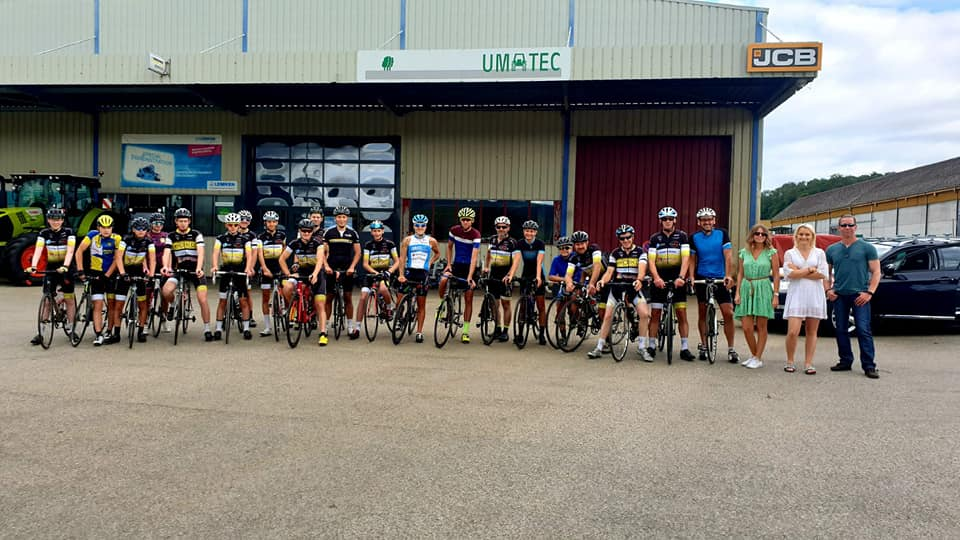
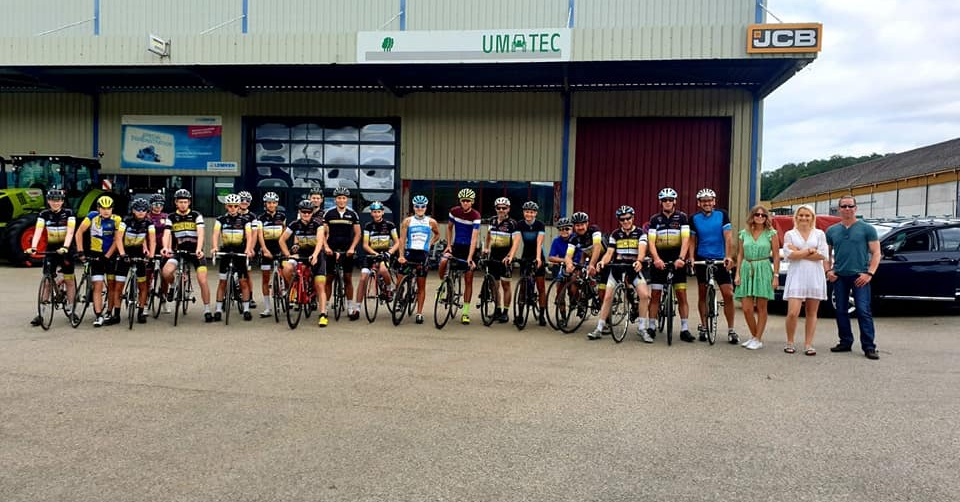
change of image

diff --git a/_posts/2020-06-28-la-reprise.md b/_posts/2020-06-28-la-reprise.md
@@ -2,7 +2,7 @@
 layout: post
 title:  "Les sorties club font leur retour !"
 featured : yes
-image: assets/images/20_Soubey_Piquenique.jpg
+image: assets/images/20_Soubey_Groupe.jpg
 ---
   
 Le déconfinement se poursuivant petit à petit, la FFC annonçait ce vendredi [la fin des contraintes appliquées aux entraînements](http://www.ffc-bfc.fr/uploads/elfinder/ACTUALITE/2020/Communiqu%C3%A9%20FFC%2026%20juin%202020%20-%20Activit%C3%A9s%20Cyclistes%20-%20Retour%20%C3%A0%20la%20normale.pdf) (10 coureurs max et espacés de 2m). À l'aube d'un week-end globalement ensoleillé, il n'en fallait guère davantage pour que deux sorties club s'organisent : la première, samedi, sillonnait les routes du Sundgau en conduisant les coureurs du côté de Winkel et du Blochmont.
